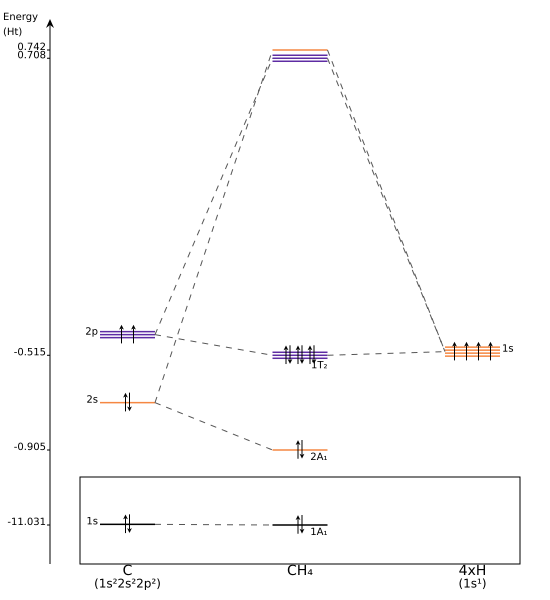
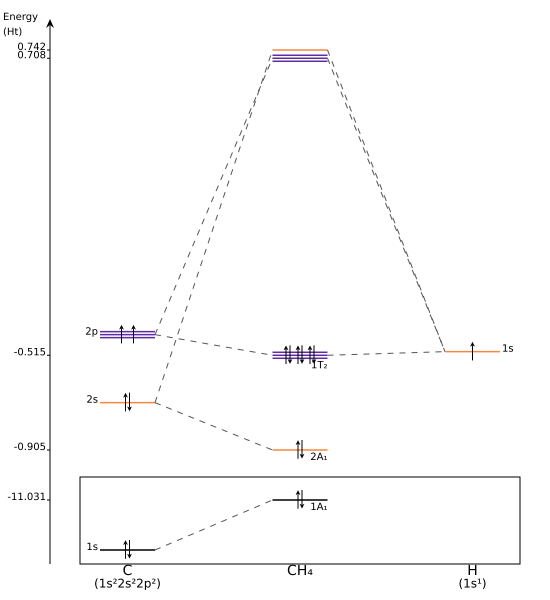
Fixing examples for H2 and N2

diff --git a/examples/ethylene_symad.py b/examples/ethylene_symad.py
@@ -1,7 +1,36 @@
+"""
+This script constructs a molecular orbital (MO) energy-level diagram for
+ethylene based on a Hartree-Fock (HF) calculation performed in a
+symmetry-adapted atomic orbital basis.
+
+The workflow is as follows:
+  1. Perform a restricted Hartree-Fock (RHF) calculation for ethylene using
+     PyQInt and a STO-3G basis.
+  2. Construct an unnormalized symmetry-adapted basis by linearly combining
+     the original atomic orbitals according to ethylene's point-group
+     symmetry.
+  3. Reorder the symmetry-adapted basis such that orbitals belonging to the
+     same irreducible representation are consecutive, yielding block-diagonal
+     overlap and Fock matrices (not further used in this script)
+  4. Renormalize the symmetry-adapted basis functions and recompute the HF
+     solution in this new basis.
+  5. Automatically partition the resulting orbitals into fragments and
+     generate a molecular orbital diagram using MoDia, with orbitals grouped
+     and labeled by symmetry.
+
+The final output is an SVG molecular orbital diagram visualizing the
+symmetry-adapted HF solution for ethylene.
+
+Note:
+  This script requires PyQInt >= 1.2.0.
+"""
+
 import os
 from pymodia import MoDia, MoDiaData, MoDiaSettings, MoDiaFragment, MoDiaMolecule
 from pyqint import MoleculeBuilder, HF, PyQInt, CGF, GTO
 import numpy as np
+from packaging.version import Version; 
+import importlib.metadata as m;
 
 def main():
     # Perform PyQInt calculations for CO and its localization
@@ -13,7 +42,7 @@ def main():
     settings.arrow_color = '#CC0000'
     settings.mo_round = 2
     settings.ao_round = 2
-    settings.orbc_cutoff = 0.2
+    settings.orbc_cutoff = 0.3
     settings.ao1_labels = [''] * len(res['orbe']) # custom basis, do not label
     settings.ao2_labels = [''] * len(res['orbe']) # custom basis, do not label
 
@@ -22,13 +51,12 @@ def main():
 
     ao1_idx = np.array([0,1,2,4,5,6,8,9,10,12], dtype=np.int64)
     ao1_idx = ao1_idx[np.argsort([ao_energies[i] for i in ao1_idx])]
-    print([ao_energies[i] for i in ao1_idx])
-    f1 = MoDiaFragment('C', [ao_energies[i] for i in ao1_idx], 
+    f1 = MoDiaFragment('2xC', [ao_energies[i] for i in ao1_idx], 
                        12, {j:i for i,j in enumerate(ao1_idx)})
 
     ao2_idx = np.array([3,7,11,13], dtype=np.int64)
     ao2_idx = ao2_idx[np.argsort([ao_energies[i] for i in ao2_idx])]
-    f2 = MoDiaFragment('H', [ao_energies[i] for i in ao2_idx], 
+    f2 = MoDiaFragment('4xH', [ao_energies[i] for i in ao2_idx], 
                        4, {j:i for i,j in enumerate(ao2_idx)})
 
     mol = MoDiaMolecule('ethylene', res['orbe'], res['orbc'], res['nelec'])
@@ -48,6 +76,9 @@ def build_symads():
     Build symmetry-adapted basis for ethylene and use it to solve ethylene's
     electronic structure problem
     """
+    # this function requires PyQInt version 1.2.0 or newer
+    assert Version(m.version("pyqint")) >= Version("1.2.0")
+
     mol = MoleculeBuilder().from_name('ethylene')
     cgfs, nuclei = mol.build_basis('sto3g')
     res = HF().rhf(mol, 'sto3g')
@@ -139,7 +170,7 @@ def build_symads():
             g.c /= np.sqrt(S)
 
     # recalculate ethylene molecule using the new symmetry-adapted basis
-    res = HF().rhf(mol, cgfs_symad, verbose=True)
+    res = HF().rhf(mol, cgfs_symad)
 
     return res
 

diff --git a/examples/ch4_default.py b/examples/ch4_default.py
@@ -1,0 +1,44 @@
+import os
+from pymodia import MoDia, MoDiaData, Atom, MoDiaMolecule, subscript, MoDiaSettings
+from pyqint import MoleculeBuilder, HF, FosterBoys
+
+# Perform PyQInt calculations for CO and its localization
+mol = MoleculeBuilder().from_name('ch4')
+res = HF().rhf(mol, 'sto3g')
+resfb = FosterBoys(res).run()
+
+# Setting up MoDia objects
+C = Atom("C")
+H = Atom("H")
+mol_name = subscript("CH4")
+mol = MoDiaMolecule(mol_name, C, 1, H, 4)
+
+# adjust settings
+settings = MoDiaSettings()
+settings.orbc_color = '#555555'
+settings.arrow_color = '#CC0000'
+settings.ao_round = 2
+settings.orbc_cutoff = 0.35
+# making diagram for canonical orbitals
+ch4_data = MoDiaData(molecule=mol, moe=res['orbe'], orbc=res['orbc'])
+diagram = MoDia(ch4_data, draw_level_labels=True, level_labels_style='mo_ao',
+                mo_labels=['1A'+subscript('1'), 
+                           '2A'+subscript('1'),
+                           '1T'+subscript('2'), 
+                           '1T'+subscript('2'), 
+                           '1T'+subscript('2'), '', '', '', '', ''],
+                settings=settings)
+diagram.export_svg(os.path.join(os.path.dirname(__file__), "mo_ch4_canonical_default.svg"))
+
+# adjust settings for localized orbitals
+settings = MoDiaSettings()
+settings.orbc_color = '#555555'
+settings.arrow_color = '#CC0000'
+settings.ao_round = 2
+settings.orbc_cutoff = 0.35
+
+# making diagram for localized orbitals
+ch4_data = MoDiaData(molecule=mol, moe=resfb['orbe'], orbc=resfb['orbc'])
+diagram = MoDia(ch4_data, draw_level_labels=True, level_labels_style='mo_ao',
+                mo_labels=[[]] * len(resfb['orbe']), settings=settings)
+diagram.export_svg(os.path.join(os.path.dirname(__file__), "mo_ch4_localized_default.svg"))

diff --git a/pymodia/modiagram.py b/pymodia/modiagram.py
@@ -157,18 +157,17 @@ class MoDia():
         if nr_a2 >= 2 and self.data.fragment2.name != "H":
             print('Number of fragments 2 >= 2, only one set of atomic orbtials is drawn')
 
-        
         # core scaling
-        emin = min(core_energies)
-        emax = max(core_energies)
-        
-          # prevent collapse for nearly-degenerate cores
-        if abs(emax - emin) < 1e-6:
-            emax = emin + 1e-6
+        if len(core_energies) > 0:
+            emin = min(core_energies)
+            emax = max(core_energies)
+            
+            # prevent collapse for nearly-degenerate cores
+            if abs(emax - emin) < 1e-6:
+                emax = emin + 1e-6
         
         def scale_core(e):
             return (e - emin) / (emax - emin) * core_height
-        
 
         # Finding lowest outer orbital
         lwst_mo_o = min(mo_outer)
@@ -178,17 +177,16 @@ class MoDia():
 
         # Finding locations of outer levels
         height_0_outer = outer_height + margin
-        height_0_core = (core_height + outer_height + 2*margin)
+        height_0_core = (core_height + outer_height + 2 * margin)
 
         # reordering (ro) and scaling (s) orbital levels
         # Molecular orbitals
         ro_mo_outer = [x+abs(lwst_outer) for x in mo_outer]
         s_mo_outer = [x/(max(ro_mo_outer)) * outer_height for x in ro_mo_outer]
-        
         s_mo_core  = [scale_core(e) for e in mo_core]
 
-
         # Atomic orbitals
+        # ---------------
         # Atomic orbital 1
         ro_ao1_outer = [x+abs(lwst_outer) for x in ao1_outer]
         s_ao1_outer = [x/(max(ro_mo_outer)) * outer_height for x in

diff --git a/examples/h2.py b/examples/h2.py
@@ -1,31 +1,23 @@
 import os
-import sys
+from pymodia import MoDia, MoDiaData, autobuild_from_pyqint, MoDiaSettings, subscript
+from pyqint import MoleculeBuilder, HF
 
-# MO data
-mo_energies = [-0.58, 0.67]
-orbc = [[-0.55, -0.55], [1.21, -1.21]]
+# Perform PyQInt calculations for CO and its localization
+mol = MoleculeBuilder().from_name('h2')
+res = HF().rhf(mol, 'sto3g')
 
-#
-# Setting up PyMoDia objects
-#
+# adjust settings
+settings = MoDiaSettings()
+settings.orbc_color = '#555555'
+settings.arrow_color = '#CC0000'
 
-# build fragment from name and levels
-h = MoDiaFragment("H", [-0.08])
+# attempt to automatically create mol and fragments from calculation
+mol, f1, f2 = autobuild_from_pyqint(res, name=subscript('H2'))
 
-# build molecule name
-mol_name = subscript("H2")
+# build data object
+data = MoDiaData(mol, f1, f2)
 
-# build molecule and specify fragments
-mol = MoDiaMolecule(mol_name, mo_energies, orbc)
-
-# build diagram
-h2 = MoDiaData(mol, h, h)
-
-diagram = MoDia(h2, outer_height=200, core_height=20, height=320,
-                mo_color=['#1aa7ec', '#1aa7ec'], draw_orbc=True,
-                mo_labels=['σ', 'σ*'], draw_level_labels=True,
-                level_labels_style='mo')
-
-# Save image
-diagram.export_svg(os.path.join(
-    os.path.dirname(__file__), "H2_mo_diagram.svg"))
+diagram = MoDia(data, draw_level_labels=True, level_labels_style='mo_ao',
+                mo_labels=['1σ', '2σ*'],
+                settings=settings)
+diagram.export_svg(os.path.join(os.path.dirname(__file__), "mo_h2.svg"))

diff --git a/examples/ethylene.py b/examples/ethylene.py
@@ -1,3 +1,24 @@
+"""
+This script generates molecular orbital (MO) energy-level diagrams for
+ethylene based on a Hartree–Fock (HF) calculation performed with PyQInt.
+
+Two MO diagrams are produced:
+  1. Canonical HF molecular orbitals.
+  2. Foster–Boys localized molecular orbitals derived from the HF solution.
+
+The workflow is:
+  - Perform an RHF calculation for ethylene using a STO-3G basis.
+  - Automatically construct MoDia molecule and fragment objects from the
+    PyQInt results.
+  - Slightly adjust selected orbital energies to avoid visual overlap in the
+    rendered diagram.
+  - Generate and export SVG MO diagrams using MoDia for both canonical and
+    localized orbitals.
+
+The resulting diagrams visualize the correspondence between atomic orbitals
+and molecular orbitals for ethylene in both representations.
+"""
+
 import os
 from pymodia import MoDia, MoDiaData, MoDiaSettings, autobuild_from_pyqint
 from pyqint import MoleculeBuilder, HF, FosterBoys
@@ -12,7 +33,7 @@ settings.orbc_color = '#555555'
 settings.arrow_color = '#CC0000'
 settings.ao_round = 2
 settings.mo_round = 2
-settings.orbc_cutoff = 0.2
+settings.orbc_cutoff = 0.4
 
 # attempt to automatically create mol and fragments from calculation
 mol, f1, f2 = autobuild_from_pyqint(res, name='ethylene')
@@ -43,6 +64,9 @@ mol, f1, f2 = autobuild_from_pyqint(resfb, name='ethylene')
 
 # build data object
 data = MoDiaData(mol, f1, f2)
+moe = resfb['orbe']
+moe[6] += 0.1
+moe[7] += 0.1
 data.set_moe(moe)
 
 # construct diagram

diff --git a/pymodia/helpers.py b/pymodia/helpers.py
@@ -11,6 +11,11 @@ def autobuild_from_pyqint(res, name=None):
     atoms, idx = np.unique([n[1] for n in res['nuclei']], return_index=True)
     atoms = atoms[np.argsort(idx)]
     
+    # sneaky hack to handle homonuclear diatomic molecules
+    if len(atoms) == 1 and len(res['nuclei']) == 2:
+        atoms = [atoms[0],-1]
+        res['nuclei'][1][1] = -1
+
     if len(atoms) != 2:
         raise Exception('Cannot autobuild from molecule with more than 2 distinct elements.')
 
@@ -57,12 +62,16 @@ def autobuild_from_pyqint(res, name=None):
 
                 break
     
+    # in the case of homonuclear system, unspoof the second atom
+    if atoms[1] == -1:
+        res['nuclei'][1][1] = res['nuclei'][0][1]
+
     # fragment 1
     el = find_by_atomic_number(atoms[0])
     f1 = MoDiaFragment(el['symbol'], el['ao_energy'], el['atomic_number'], mapping[atoms[0]], sublabel=superscript(el['configuration']))
                        
     # fragment 2
-    el = find_by_atomic_number(atoms[1])
+    el = find_by_atomic_number(atoms[1] if atoms[1] != -1 else atoms[0]) # needed for homonuclear diatomic molecules
     f2 = MoDiaFragment(el['symbol'], el['ao_energy'], el['atomic_number'], mapping[atoms[1]], sublabel=superscript(el['configuration']))
 
     # molecule

diff --git a/examples/n2.py b/examples/n2.py
@@ -1,0 +1,25 @@
+import os
+from pymodia import MoDia, MoDiaData, autobuild_from_pyqint, MoDiaSettings, subscript
+from pyqint import GeometryOptimization, FosterBoys, Molecule
+
+# Perform PyQInt calculations for N2
+dist = 0.5669
+mol = Molecule('N2')
+mol.add_atom('N', 0.0, 0.0, -dist, unit='angstrom')
+mol.add_atom('N', 0.0, 0.0, dist, unit='angstrom')
+res = GeometryOptimization().run(mol, 'sto3g')['data']
+
+# adjust settings
+settings = MoDiaSettings()
+settings.orbc_color = '#555555'
+settings.arrow_color = '#CC0000'
+
+# attempt to automatically create mol and fragments from calculation
+mol, f1, f2 = autobuild_from_pyqint(res, name=subscript('N2'))
+
+# build data object
+data = MoDiaData(mol, f1, f2)
+diagram = MoDia(data, draw_level_labels=True, level_labels_style='mo_ao',
+                mo_labels=[''] * len(res['orbe']),
+                settings=settings)
+diagram.export_svg(os.path.join(os.path.dirname(__file__), "mo_n2_canonical.svg"))

diff --git a/examples/co.py b/examples/co.py
@@ -1,8 +1,6 @@
 import os
 from pymodia import MoDia, MoDiaData, autobuild_from_pyqint, MoDiaSettings
 from pyqint import MoleculeBuilder, HF, FosterBoys
-import numpy as np
-import json
 
 # Perform PyQInt calculations for CO and its localization
 mol = MoleculeBuilder().from_name('co')

diff --git a/pymodia/data.py b/pymodia/data.py
@@ -70,7 +70,7 @@ class MoDiaData():
         moe : lst
             List of MO energies
         """
-        self.moe = moe
+        self.molecule.state_energies = moe
 
         return self
 
